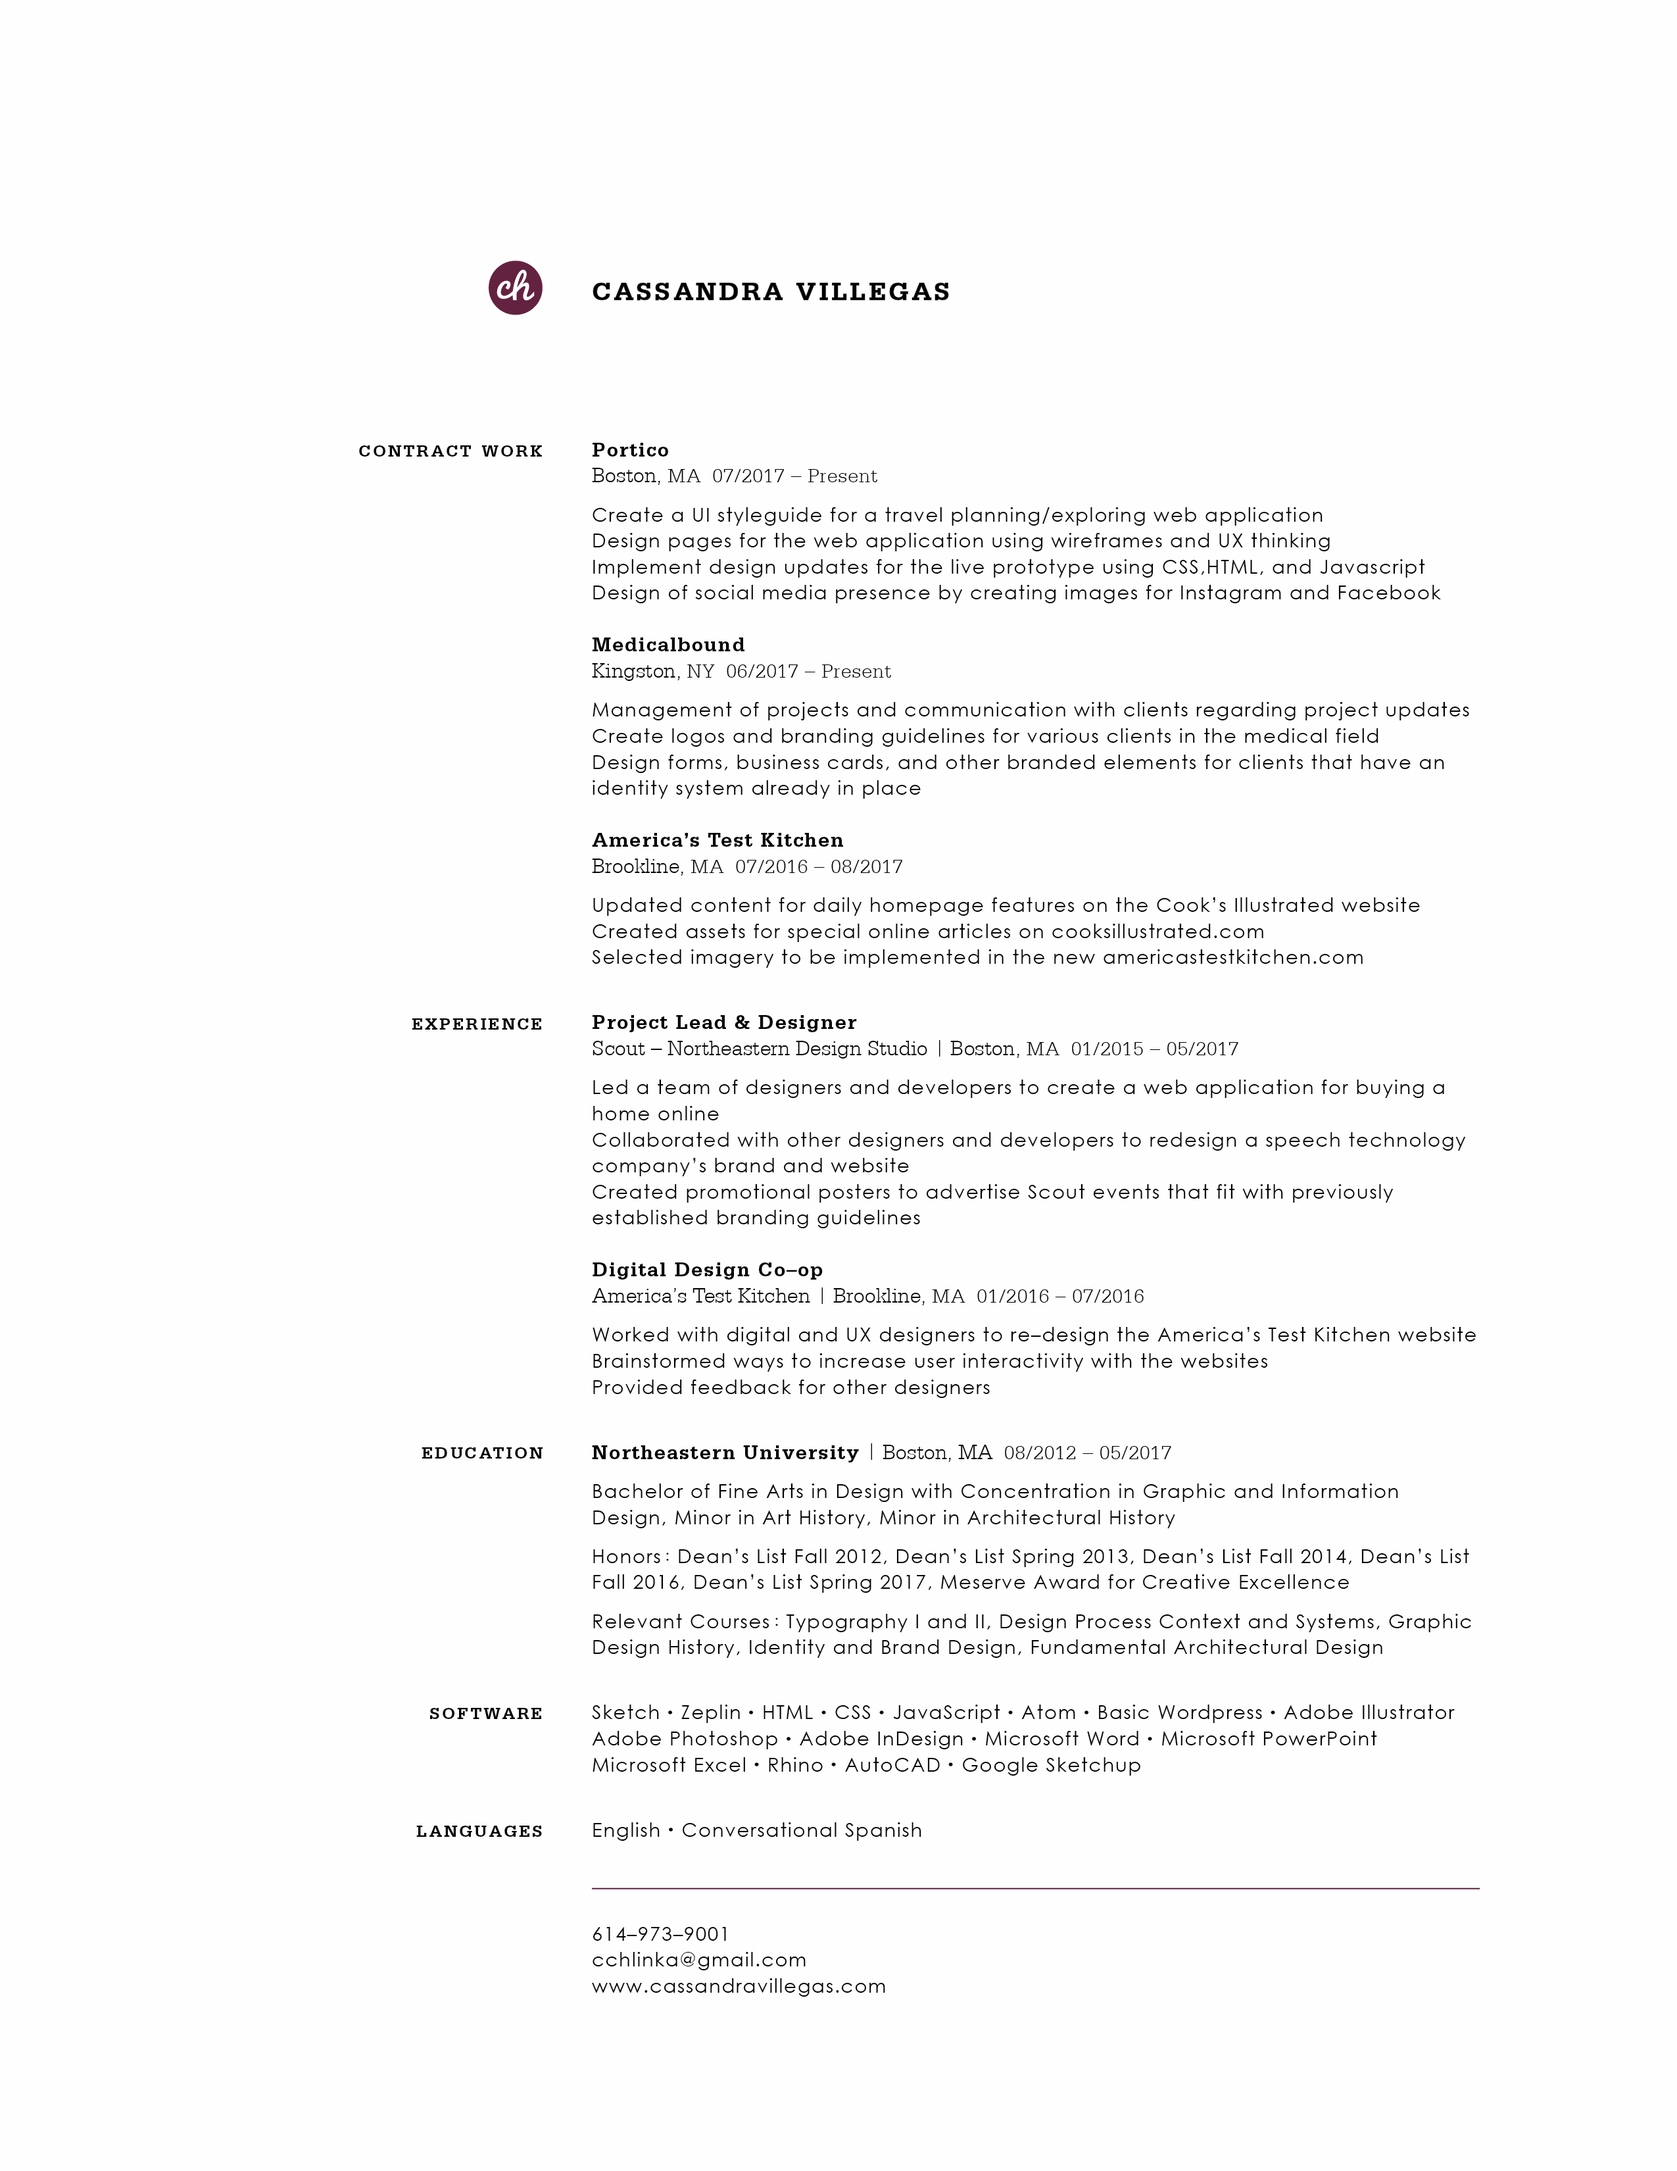
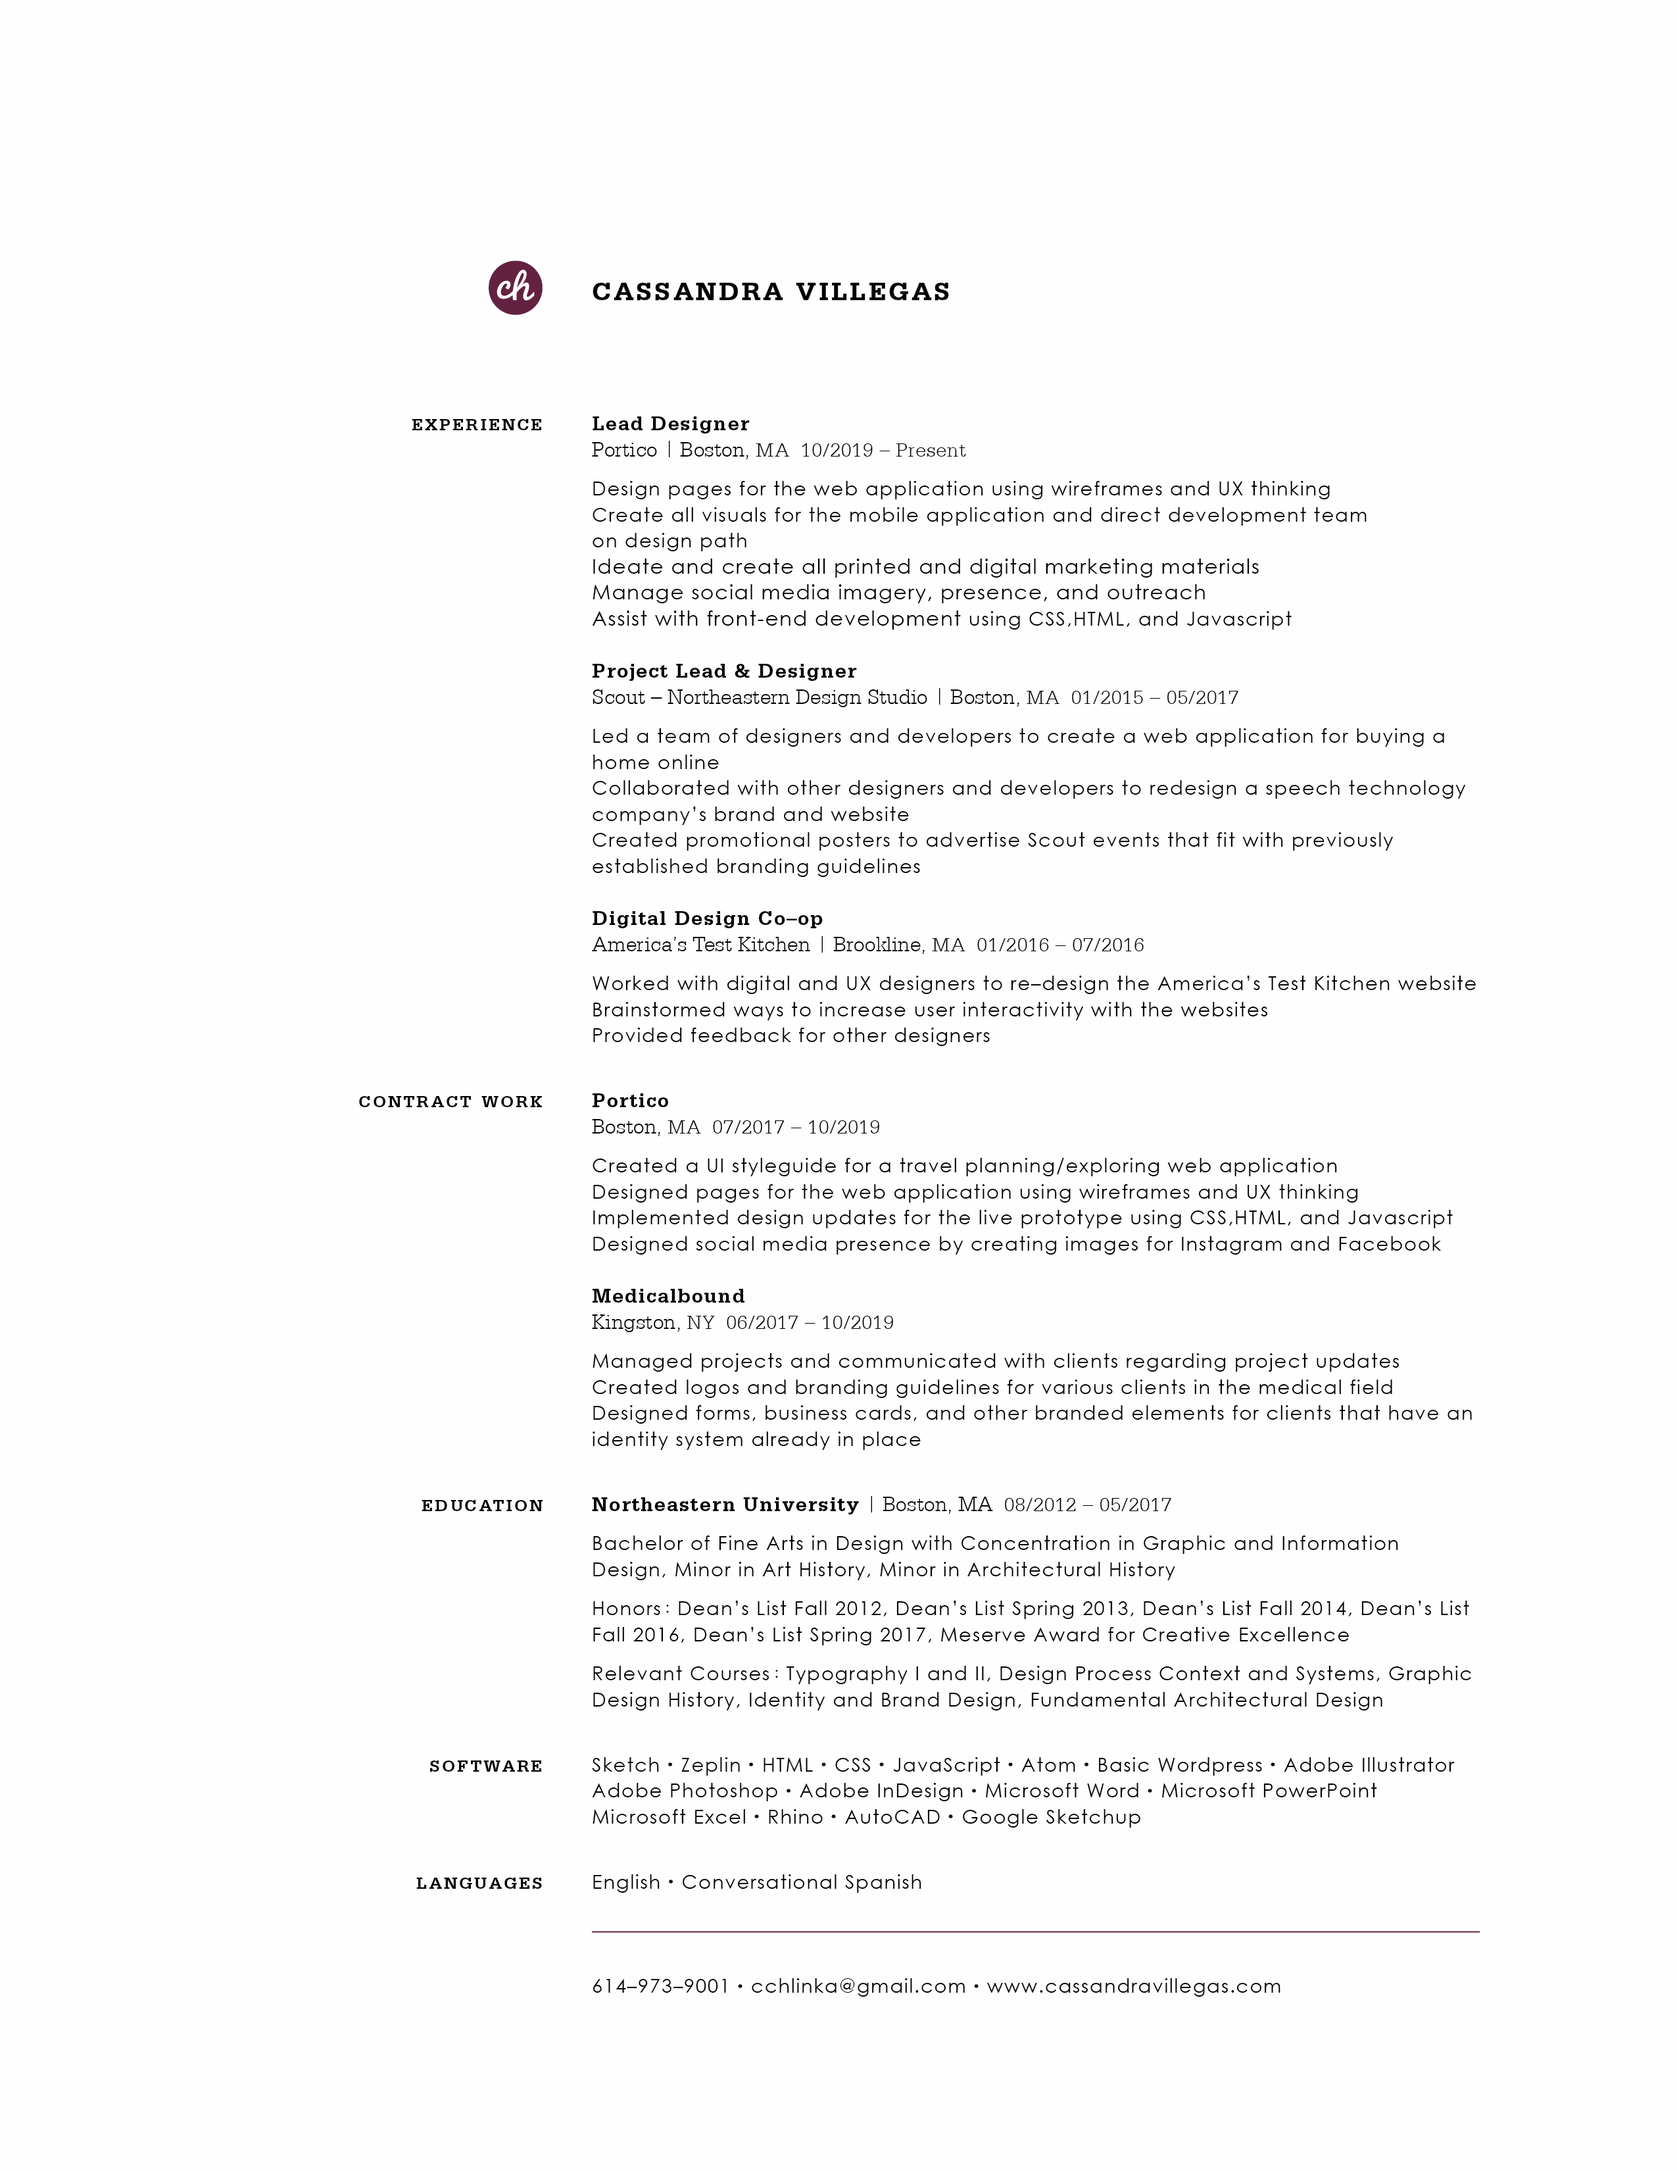
New resume and update to about page

diff --git a/about.html b/about.html
@@ -60,7 +60,7 @@
             <div class="col-lg-6 col-lg-push-1 col-md-5 col-md-push-1 col-sm-7 col-xs-12 bio">
               <h1 id="contact-greeting">Hi There!</h1>
               <br>
-              <p>I am a freelance digital and interactive designer interested in all things related to branding and web design. I have worked on a variety of projects, from designing a web application for an online homebuying company, to creating an identity system and series of labels for a cold brew coffee company. I love getting the opportunity to work on unique design problems and am always up for a challenge.</p>
+              <p>I am a digital and interactive designer interested in all things related to branding and web design. I have worked on a variety of projects, from designing a web application for an online homebuying company, to creating an identity system and series of labels for a cold brew coffee company. I love getting the opportunity to work on unique design problems and am always up for a challenge.</p>
               <p>When I’m not designing, you can find me in the kitchen testing my baking skills. Also, when I have time, I enjoy exploring the outdoors through some amateur hiking.</p>
               <br>
               <br>
@@ -85,7 +85,7 @@
           <br>
           <h4>Currently</h4>
           <p>Lead Designer for <a target="blank" href="https://portico.travel/">Portico</a></p>
-          <p>Contract Project Manager and Graphic Designer for <a target="blank" href="http://www.medicalbound.com/">Medicalbound</a></p>
+          <!-- <p>Contract Project Manager and Graphic Designer for <a target="blank" href="http://www.medicalbound.com/">Medicalbound</a></p> -->
           <br>
           <!-- <h4>January 2016 &ndash; July 2016</h4>
           <p>Digital Design Co-op at <a target="blank" href="https://www.americastestkitchen.com/">America's Test Kitchen</a></p>
